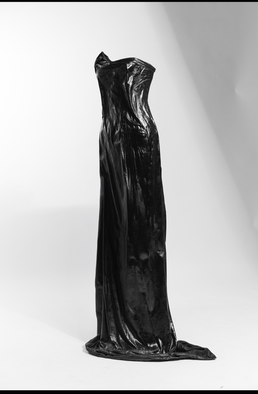
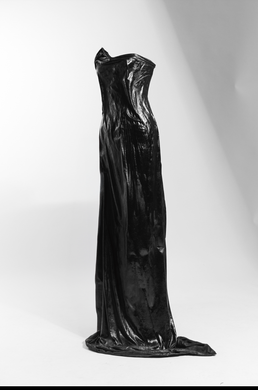
Show Proyectos, Works and Capsula as three parallel columns
Match the reference PDF layout exactly: the three categories now sit
side by side in one gallery section with small thumbnails, instead of
stacked full-width sections. Drops the now-unneeded scrollspy since
all categories are visible at once. Also trims a few leftover
letterbox/UI slivers from source images.

diff --git a/src/App.jsx b/src/App.jsx
@@ -1,4 +1,4 @@
-import { useEffect, useState } from 'react';
+import { useState } from 'react';
 import Header from './components/Header';
 import Hero from './components/Hero';
 import Intro from './components/Intro';
@@ -17,26 +17,7 @@ const fotolibroImages = [
 ];
 
 function App() {
-  const [activeSection, setActiveSection] = useState(categories[0].id);
   const [lightbox, setLightbox] = useState(null);
-
-  useEffect(() => {
-    const sections = categories.map((c) => document.getElementById(c.id)).filter(Boolean);
-    const observer = new IntersectionObserver(
-      (entries) => {
-        const visible = entries.filter((e) => e.isIntersecting);
-        if (visible.length > 0) {
-          const top = visible.reduce((a, b) =>
-            a.boundingClientRect.top < b.boundingClientRect.top ? a : b,
-          );
-          setActiveSection(top.target.id);
-        }
-      },
-      { rootMargin: '-35% 0px -55% 0px', threshold: 0 },
-    );
-    sections.forEach((s) => observer.observe(s));
-    return () => observer.disconnect();
-  }, []);
 
   const openLightbox = (categoryId, index) => setLightbox({ categoryId, index });
   const closeLightbox = () => setLightbox(null);
@@ -51,15 +32,9 @@ function App() {
       <Header />
       <Hero />
       <Intro />
-      <Nav categories={categories} active={activeSection} />
+      <Nav categories={categories} />
       <main>
-        {categories.map((cat) => (
-          <Gallery
-            key={cat.id}
-            category={cat}
-            onSelect={(index) => openLightbox(cat.id, index)}
-          />
-        ))}
+        <Gallery categories={categories} onSelect={openLightbox} />
       </main>
       <Fotolibro onSelect={(index) => openLightbox('fotolibro', index)} />
       {lightbox && activeImages && (

diff --git a/src/components/Gallery.jsx b/src/components/Gallery.jsx
@@ -1,18 +1,33 @@
-function Gallery({ category, onSelect }) {
+const COLUMNS_BY_CATEGORY = {
+  proyectos: 3,
+  works: 2,
+  capsula: 2,
+};
+
+function Gallery({ categories, onSelect }) {
   return (
-    <section id={category.id} className="gallery">
-      <h2 className="gallery-title">{category.label.toUpperCase()}</h2>
-      <div className="gallery-grid">
-        {category.images.map((img, i) => (
-          <button
-            key={img.id}
-            type="button"
-            className="gallery-item"
-            onClick={() => onSelect(i)}
-            aria-label={`Ver ${img.alt} en grande`}
-          >
-            <img src={img.src} alt={img.alt} loading="lazy" />
-          </button>
+    <section id="gallery" className="gallery">
+      <div className="gallery-columns">
+        {categories.map((category) => (
+          <div key={category.id} className="gallery-column">
+            <h2 className="gallery-title">{category.label.toUpperCase()}</h2>
+            <div
+              className="gallery-grid"
+              style={{ columnCount: COLUMNS_BY_CATEGORY[category.id] ?? 2 }}
+            >
+              {category.images.map((img, i) => (
+                <button
+                  key={img.id}
+                  type="button"
+                  className="gallery-item"
+                  onClick={() => onSelect(category.id, i)}
+                  aria-label={`Ver ${img.alt} en grande`}
+                >
+                  <img src={img.src} alt={img.alt} loading="lazy" />
+                </button>
+              ))}
+            </div>
+          </div>
         ))}
       </div>
     </section>

diff --git a/src/App.css b/src/App.css
@@ -144,10 +144,6 @@
   transition: font-weight 0.15s ease;
 }
 
-.nav-link.is-active {
-  font-weight: 700;
-}
-
 .nav-logo {
   font-size: 18px;
   font-weight: 700;
@@ -162,36 +158,34 @@
 
 /* Gallery */
 .gallery {
-  padding: 64px 32px 0;
+  padding: 64px 32px;
+}
+
+.gallery-columns {
+  display: grid;
+  grid-template-columns: repeat(3, 1fr);
+  gap: 40px;
+  align-items: start;
+}
+
+.gallery-column {
+  min-width: 0;
 }
 
 .gallery-title {
   font-size: 13px;
   letter-spacing: 1.5px;
-  margin-bottom: 32px;
+  margin-bottom: 24px;
 }
 
 .gallery-grid {
-  column-count: 3;
-  column-gap: 24px;
-}
-
-@media (max-width: 900px) {
-  .gallery-grid {
-    column-count: 2;
-  }
-}
-
-@media (max-width: 560px) {
-  .gallery-grid {
-    column-count: 1;
-  }
+  column-gap: 12px;
 }
 
 .gallery-item {
   display: block;
   width: 100%;
-  margin-bottom: 24px;
+  margin-bottom: 12px;
   break-inside: avoid;
   overflow: hidden;
 }
@@ -204,6 +198,19 @@
 
 .gallery-item:hover img {
   opacity: 0.85;
+}
+
+@media (max-width: 900px) {
+  .gallery-columns {
+    grid-template-columns: 1fr;
+    gap: 48px;
+  }
+}
+
+@media (max-width: 480px) {
+  .gallery-grid {
+    column-count: 2 !important;
+  }
 }
 
 /* Fotolibro */

diff --git a/src/components/Nav.jsx b/src/components/Nav.jsx
@@ -1,6 +1,6 @@
-function Nav({ categories, active }) {
-  const scrollTo = (id) => {
-    document.getElementById(id)?.scrollIntoView({ behavior: 'smooth', block: 'start' });
+function Nav({ categories }) {
+  const scrollToGallery = () => {
+    document.getElementById('gallery')?.scrollIntoView({ behavior: 'smooth', block: 'start' });
   };
 
   return (
@@ -8,11 +8,7 @@ function Nav({ categories, active }) {
       <ul className="nav-list">
         {categories.map((c) => (
           <li key={c.id}>
-            <button
-              type="button"
-              className={`nav-link${active === c.id ? ' is-active' : ''}`}
-              onClick={() => scrollTo(c.id)}
-            >
+            <button type="button" className="nav-link" onClick={scrollToGallery}>
               {c.label.toUpperCase()}
             </button>
           </li>
